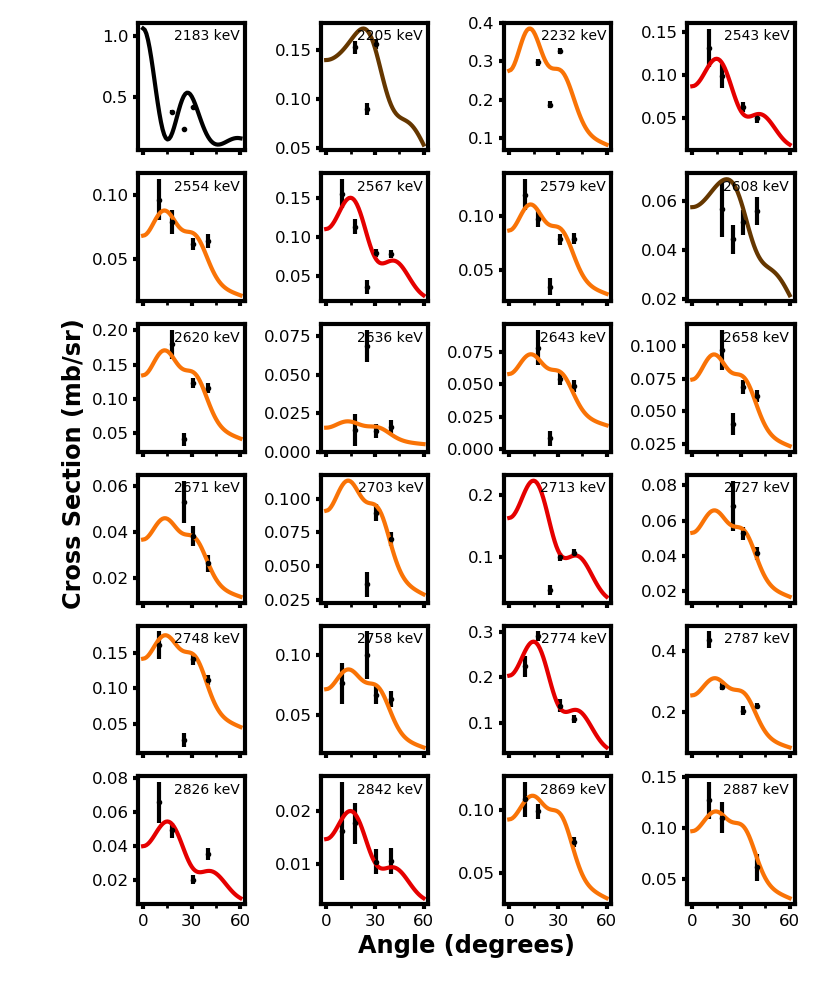
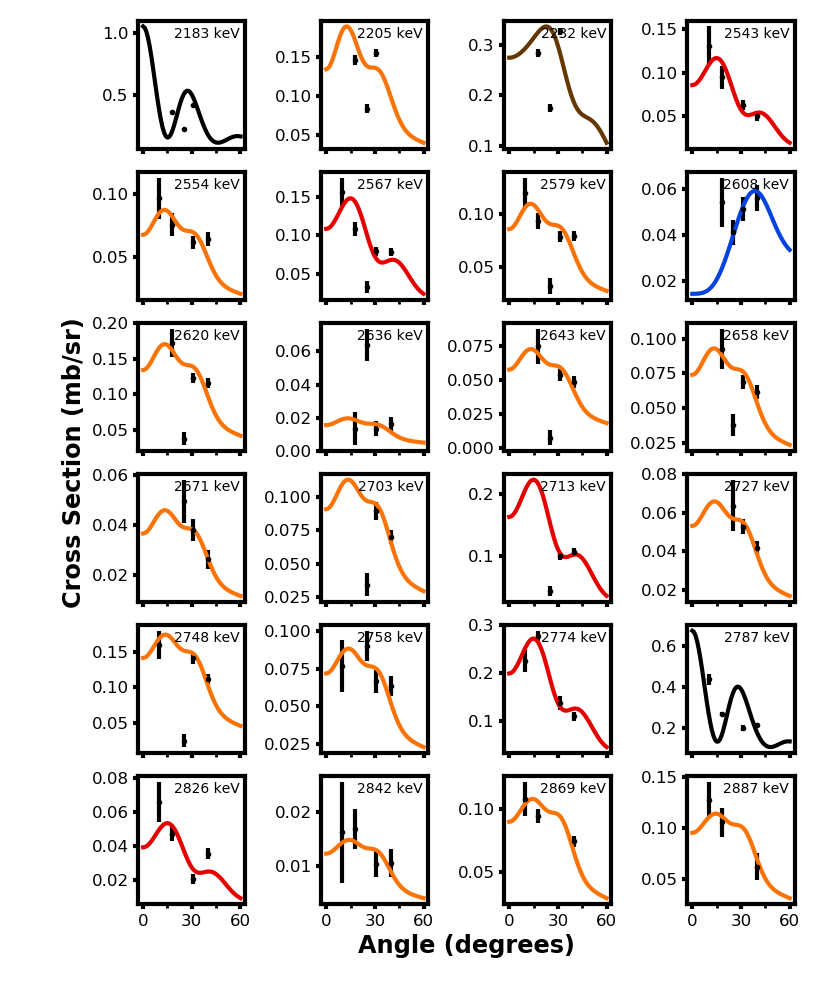
added function in l_assignment to remove one angle from the normalisation fixed the 25 degree data made plots with dodgy 25 degree data

diff --git a/l_assignment/l_assignment.py b/l_assignment/l_assignment.py
@@ -351,7 +351,8 @@ for i in range(peaks_no):
             #for each matching value, this loop calculates the normalisation factor and adds it to the sum_norm value
             for l in range(len(t_angles)):
                 for m in range(len(angles)):
-                    if angles[m] == 25: continue
+                    #if there's a dodgy angle include this line
+                    #if angles[m] == 25: continue
                     if angles[m] == t_angles[l] and peak_strengths[m] != 0: #don't want division by 0           
                         numerator += peak_strengths[m]*t_xsections[l] / peak_strengths_error[m]**2
                         denominator += t_xsections[l]**2 / peak_strengths_error[m]**2
